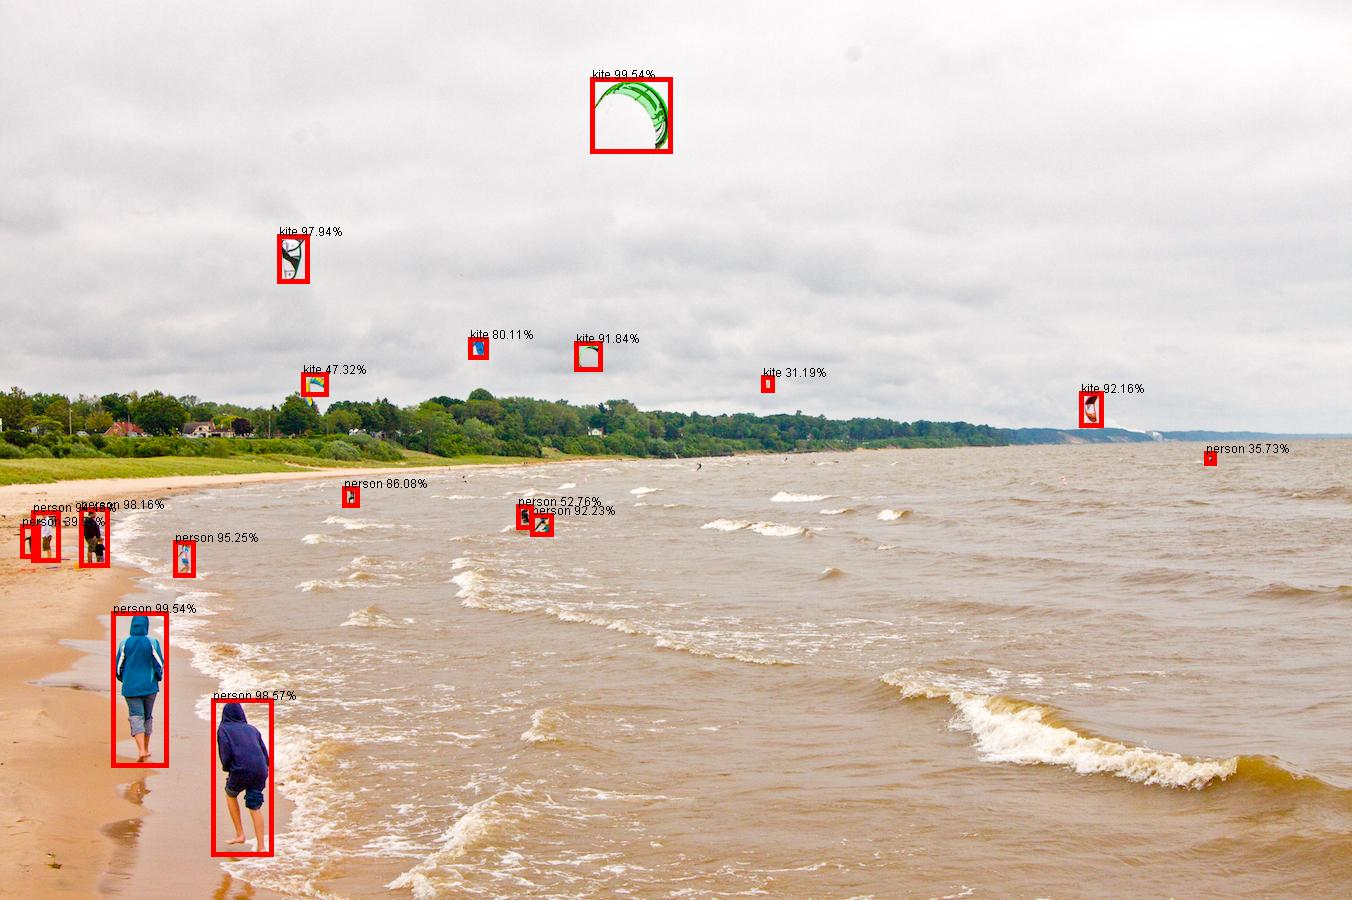
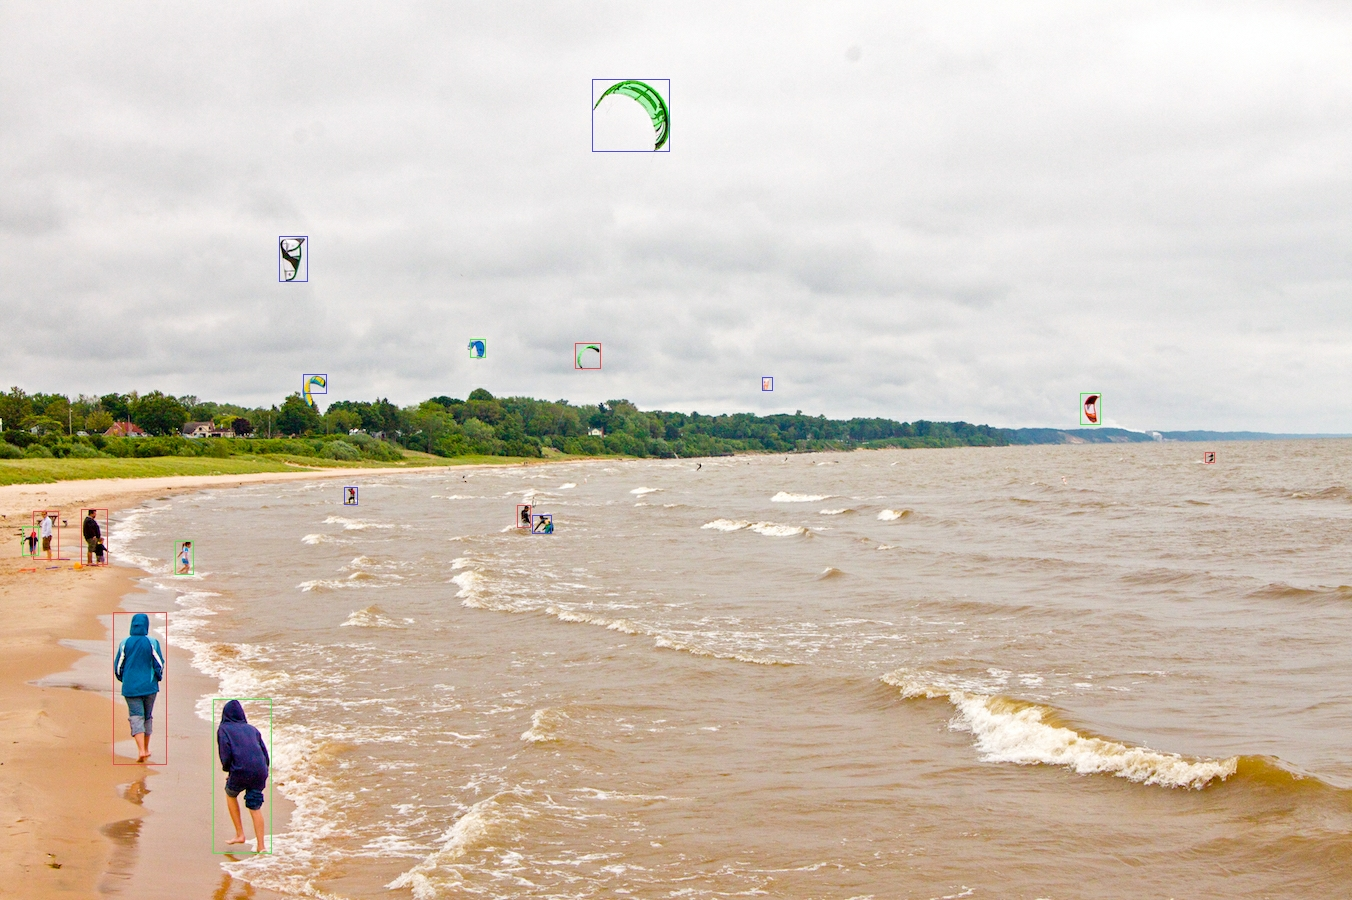
Demonstrates DrawBoundingBoxes, EncodeJpeg and WriteFile (#24)
* Create FasterRcnnInception.java

Sample code to load image and perform Object detection with faster_rcnn/inception_resnet_v2_1024x1024

* Added copyright and markdown file closed tensors plus other tidy up,

Amended file to match requested changes

* Moved to new package, plus clean ups

Changed copyright year, added parameters for input and output images, close tensors, created new runner

* Encapsulated tensors

Encapsulated all tensors and a further tidy up

* Demonstrates DrawBoundingBoxes, EncodeJpeg and WriteFile

Removes BufferedImage code and uses the DrawBoundingBoxes functionality to add boxes to the image and then converts the Tensor back to a Jpeg and writes the file

* Removed superfluous s.run(tf.init())

Session.run doesn't require additional calls to tf.init. Added latest output from DrawBoundingBoxes and WriteFile

* Fold some operations into a single graph and call it once.

simplified number of session run calls

* Added placeholders for holding boxes and outputImagePath

Feeds boxes and image path to placeholders

* Update FasterRcnnInception.java

Moved s.runner() into try catch

* Update FasterRcnnInception.java

Tidy up outputImage as imageShape has dimensions of Tensor

* Removed outputImage

inputshape is available

diff --git a/tensorflow-examples/src/main/java/org/tensorflow/model/examples/cnn/fastrcnn/FasterRcnnInception.java b/tensorflow-examples/src/main/java/org/tensorflow/model/examples/cnn/fastrcnn/FasterRcnnInception.java
@@ -105,22 +105,23 @@ import org.tensorflow.Graph;
 import org.tensorflow.SavedModelBundle;
 import org.tensorflow.Session;
 import org.tensorflow.Tensor;
+import org.tensorflow.Operand;
+import org.tensorflow.ndarray.FloatNdArray;
 import org.tensorflow.ndarray.Shape;
 import org.tensorflow.op.Ops;
 import org.tensorflow.op.core.Constant;
+import org.tensorflow.op.core.Placeholder;
 import org.tensorflow.op.core.Reshape;
 import org.tensorflow.op.image.DecodeJpeg;
+import org.tensorflow.op.image.EncodeJpeg;
 import org.tensorflow.op.io.ReadFile;
+import org.tensorflow.op.io.WriteFile;
 import org.tensorflow.types.TFloat32;
 import org.tensorflow.types.TString;
 import org.tensorflow.types.TUint8;
 
-import javax.imageio.ImageIO;
-import java.awt.*;
-import java.awt.image.BufferedImage;
-import java.io.File;
-import java.io.IOException;
-import java.text.DecimalFormat;
+
+import java.util.ArrayList;
 import java.util.HashMap;
 import java.util.Map;
 import java.util.TreeMap;
@@ -129,6 +130,7 @@ import java.util.TreeMap;
 /**
  * Loads an image using ReadFile and DecodeJpeg and then uses the saved model
  * faster_rcnn/inception_resnet_v2_1024x1024/1 to detect objects with a detection score greater than 0.3
+ * Uses the DrawBounding boxes
  */
 
 public class FasterRcnnInception {
@@ -232,8 +234,9 @@ public class FasterRcnnInception {
         if (params.length != 2) {
             throw new IllegalArgumentException("Exactly 2 parameters required !");
         }
-        //my test image
+        //my output image
         String outputImagePath = params[1];
+        //my test image
         String imagePath = params[0];
         // get path to model folder
         String modelPath = "models/faster_rcnn_inception_resnet_v2_1024x1024";
@@ -255,68 +258,89 @@ public class FasterRcnnInception {
             DecodeJpeg.Options options = DecodeJpeg.channels(3L);
             DecodeJpeg decodeImage = tf.image.decodeJpeg(readFile.contents(), options);
             //fetch image from file
-            try (TUint8 outputImage = (TUint8) runner.fetch(decodeImage).run().get(0)) {
-                Shape imageShape = outputImage.shape();
-                //dimensions of test image
-                long[] shapeArray = imageShape.asArray();
-                //reshape the tensor to 4D for input to model
-                Reshape<TUint8> reshape = tf.reshape(tf.constant(outputImage),
-                        tf.array(1,
-                                outputImage.shape().asArray()[0],
-                                outputImage.shape().asArray()[1],
-                                outputImage.shape().asArray()[2]
-                        )
-                );
-                //fresh runner for reshape
-                runner = s.runner();
-                s.run(tf.init());
-                try (TUint8 reshapeTensor = (TUint8) runner.fetch(reshape).run().get(0)) {
-                    Map<String, Tensor> feedDict = new HashMap<>();
-                    //The given SavedModel SignatureDef input
-                    feedDict.put("input_tensor", reshapeTensor);
-                    //The given SavedModel MetaGraphDef key
-                    Map<String, Tensor> outputTensorMap = model.function("serving_default").call(feedDict);
-                    //detection_classes, detectionBoxes etc. are model output names
-                    try (TFloat32 detectionClasses = (TFloat32) outputTensorMap.get("detection_classes");
-                         TFloat32 detectionBoxes = (TFloat32) outputTensorMap.get("detection_boxes");
-                         TFloat32 rawDetectionBoxes = (TFloat32) outputTensorMap.get("raw_detection_boxes");
-                         TFloat32 numDetections = (TFloat32) outputTensorMap.get("num_detections");
-                         TFloat32 detectionScores = (TFloat32) outputTensorMap.get("detection_scores");
-                         TFloat32 rawDetectionScores = (TFloat32) outputTensorMap.get("raw_detection_scores");
-                         TFloat32 detectionAnchorIndices = (TFloat32) outputTensorMap.get("detection_anchor_indices");
-                         TFloat32 detectionMulticlassScores = (TFloat32) outputTensorMap.get("detection_multiclass_scores")) {
-                        int numDetects = (int) numDetections.getFloat(0);
-                        if (numDetects > 0) {
-                            try {
-                                BufferedImage bufferedImage = ImageIO.read(new File(imagePath));
-                                Graphics2D graphics2D = bufferedImage.createGraphics();
-                                //TODO tf.image.combinedNonMaxSuppression
-                                for (int n = 0; n < numDetects; n++) {
-                                    //put probability and position in outputMap
-                                    float detectionScore = detectionScores.getFloat(0, n);
-                                    //only include those classes with detection score greater than 0.3f
-                                    if (detectionScore > 0.3f) {
-                                        float classVal = detectionClasses.getFloat(0, n);
-                                        //TODO tf.image.drawBoundingBoxes
-                                        int x1 = (int) (shapeArray[1] * detectionBoxes.getFloat(0, n, 1));
-                                        int y1 = (int) (shapeArray[0] * detectionBoxes.getFloat(0, n, 0));
-                                        int x2 = (int) (shapeArray[1] * detectionBoxes.getFloat(0, n, 3));
-                                        int y2 = (int) (shapeArray[0] * detectionBoxes.getFloat(0, n, 2));
-                                        graphics2D.setPaint(Color.RED);
-                                        graphics2D.setStroke(new BasicStroke(5));
-                                        graphics2D.drawRect(x1, y1, x2 - x1, y2 - y1);
-                                        graphics2D.setPaint(Color.BLACK);
-                                        //add a label with percentage score
-                                        graphics2D.drawString(cocoTreeMap.get(classVal - 1) + " " +
-                                                (new DecimalFormat("#.##").format(detectionScore * 100)) +
-                                                "%", x1, y1);
-                                    }
-                                }
-                                //TODO tf.image.encodeJpeg
-                                ImageIO.write(bufferedImage, "jpg", new File(outputImagePath));
-                            } catch (IOException e) {
-                                System.err.println("Exception with writing image " + e.getMessage());
+            Shape imageShape = runner.fetch(decodeImage).run().get(0).shape();
+            //reshape the tensor to 4D for input to model
+            Reshape<TUint8> reshape = tf.reshape(decodeImage,
+                    tf.array(1,
+                            imageShape.asArray()[0],
+                            imageShape.asArray()[1],
+                            imageShape.asArray()[2]
+                    )
+            );
+            try (TUint8 reshapeTensor = (TUint8) s.runner().fetch(reshape).run().get(0)) {
+                Map<String, Tensor> feedDict = new HashMap<>();
+                //The given SavedModel SignatureDef input
+                feedDict.put("input_tensor", reshapeTensor);
+                //The given SavedModel MetaGraphDef key
+                Map<String, Tensor> outputTensorMap = model.function("serving_default").call(feedDict);
+                //detection_classes, detectionBoxes etc. are model output names
+                try (TFloat32 detectionClasses = (TFloat32) outputTensorMap.get("detection_classes");
+                     TFloat32 detectionBoxes = (TFloat32) outputTensorMap.get("detection_boxes");
+                     TFloat32 rawDetectionBoxes = (TFloat32) outputTensorMap.get("raw_detection_boxes");
+                     TFloat32 numDetections = (TFloat32) outputTensorMap.get("num_detections");
+                     TFloat32 detectionScores = (TFloat32) outputTensorMap.get("detection_scores");
+                     TFloat32 rawDetectionScores = (TFloat32) outputTensorMap.get("raw_detection_scores");
+                     TFloat32 detectionAnchorIndices = (TFloat32) outputTensorMap.get("detection_anchor_indices");
+                     TFloat32 detectionMulticlassScores = (TFloat32) outputTensorMap.get("detection_multiclass_scores")) {
+                    int numDetects = (int) numDetections.getFloat(0);
+                    if (numDetects > 0) {
+                        ArrayList<FloatNdArray> boxArray = new ArrayList<>();
+                        //TODO tf.image.combinedNonMaxSuppression
+                        for (int n = 0; n < numDetects; n++) {
+                            //put probability and position in outputMap
+                            float detectionScore = detectionScores.getFloat(0, n);
+                            //only include those classes with detection score greater than 0.3f
+                            if (detectionScore > 0.3f) {
+                                boxArray.add(detectionBoxes.get(0, n));
                             }
+                        }
+                        //2-D. A list of RGBA colors to cycle through for the boxes.
+                        Operand<TFloat32> colors = tf.constant(new float[][]{
+                                {0.9f, 0.3f, 0.3f, 0.0f},
+                                {0.3f, 0.3f, 0.9f, 0.0f},
+                                {0.3f, 0.9f, 0.3f, 0.0f}
+                        });
+                        Shape boxesShape = Shape.of(1, boxArray.size(), 4);
+                        int boxCount = 0;
+                        //3-D with shape `[batch, num_bounding_boxes, 4]` containing bounding boxes
+                        try (TFloat32 boxes = TFloat32.tensorOf(boxesShape)) {
+                            //batch size of 1
+                            boxes.setFloat(1, 0, 0, 0);
+                            for (FloatNdArray floatNdArray : boxArray) {
+                                boxes.set(floatNdArray, 0, boxCount);
+                                boxCount++;
+                            }
+                            //Placeholders for boxes and path to outputimage
+                            Placeholder<TFloat32> boxesPlaceHolder = tf.placeholder(TFloat32.class, Placeholder.shape(boxesShape));
+                            Placeholder<TString> outImagePathPlaceholder = tf.placeholder(TString.class);
+                            //Create JPEG from the Tensor with quality of 100%
+                            EncodeJpeg.Options jpgOptions = EncodeJpeg.quality(100L);
+                            //convert the 4D input image to normalised 0.0f - 1.0f
+                            //Draw bounding boxes using boxes tensor and list of colors
+                            //multiply by 255 then reshape and recast to TUint8 3D tensor
+                            WriteFile writeFile = tf.io.writeFile(outImagePathPlaceholder,
+                                    tf.image.encodeJpeg(
+                                            tf.dtypes.cast(tf.reshape(
+                                                    tf.math.mul(
+                                                            tf.image.drawBoundingBoxes(tf.math.div(
+                                                                    tf.dtypes.cast(tf.constant(reshapeTensor),
+                                                                            TFloat32.class),
+                                                                    tf.constant(255.0f)
+                                                                    ),
+                                                                    boxesPlaceHolder, colors),
+                                                            tf.constant(255.0f)
+                                                    ),
+                                                    tf.array(
+                                                            imageShape.asArray()[0],
+                                                            imageShape.asArray()[1],
+                                                            imageShape.asArray()[2]
+                                                    )
+                                            ), TUint8.class),
+                                            jpgOptions));
+                            //output the JPEG to file
+                            s.runner().feed(outImagePathPlaceholder, TString.scalarOf(outputImagePath))
+                                    .feed(boxesPlaceHolder, boxes)
+                                    .addTarget(writeFile).run();
                         }
                     }
                 }
